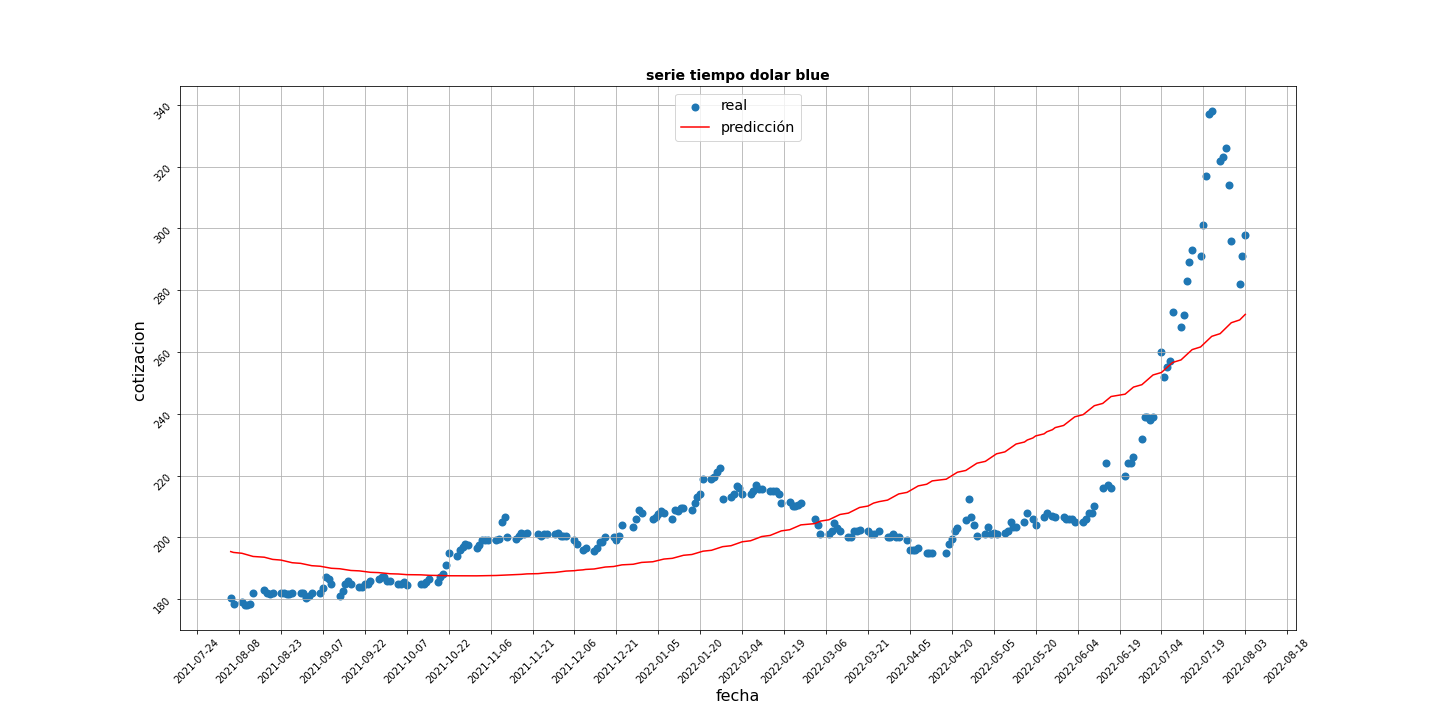
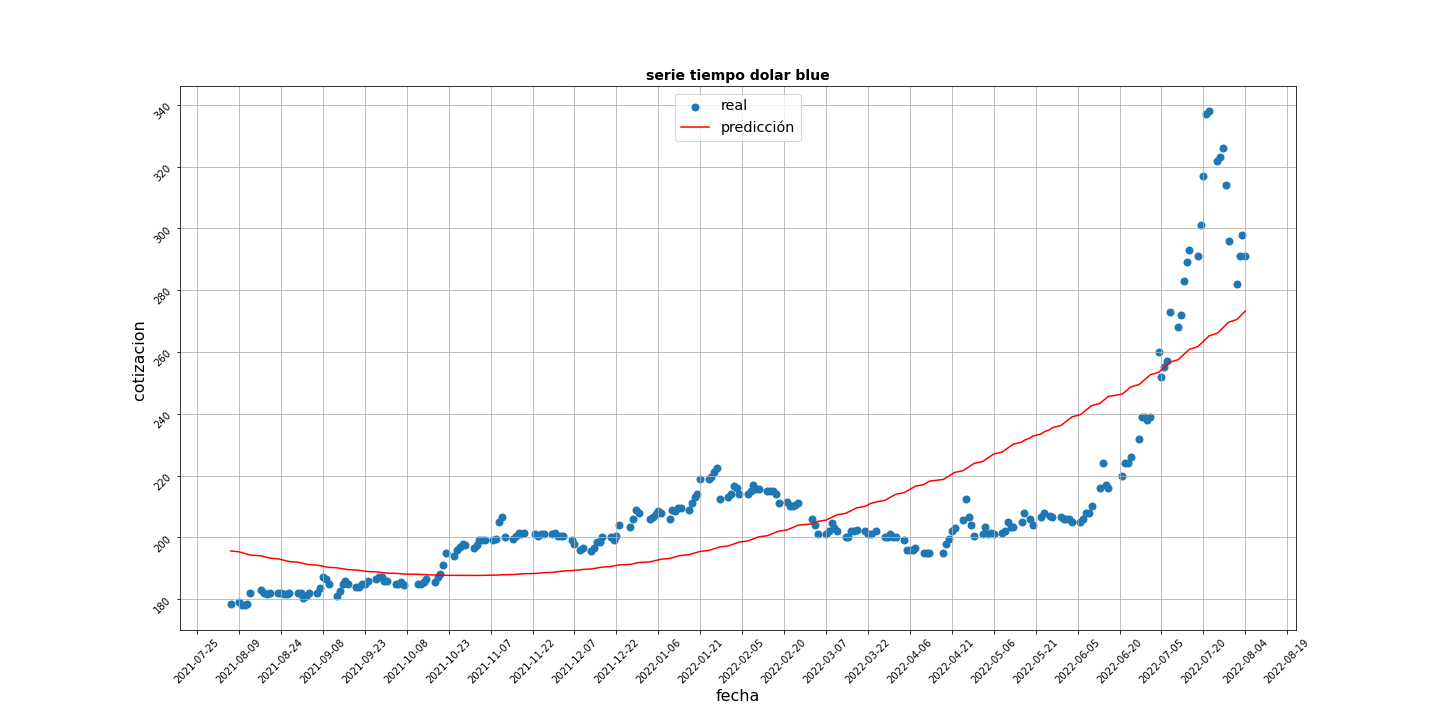
agregado CER

diff --git a/dolar_v12.py b/dolar_v12.py
@@ -16,6 +16,7 @@ from sklearn.model_selection import train_test_split
 
 grado=2
 periodo=365
+inputfecha= '2022-9-30'
 
 '''
 urls={
@@ -62,10 +63,10 @@ df_usd_oficial.to_csv('usd_oficial.csv', index=False)
 df_usd_blue.to_csv('usd_blue.csv',  index=False)
 df_milestones.to_csv('milestones.csv', index=False)
 df_CER.to_csv('CER.csv',  index=False)
-
+'''
 #FIN CONSULTA API
 
-'''
+
 
 usd_oficial= pd.read_csv('usd_oficial.csv')
 usd_blue= pd.read_csv('usd_blue.csv')
@@ -76,13 +77,9 @@ CER = pd.read_csv('CER.csv')
 dolars=  pd.merge(usd_oficial, usd_blue, on='d')
 dolars_1 = pd.merge(dolars, milestones, on='d'  )
 
-
-
 dolars['d'] = pd.to_datetime(dolars['d'], format='%Y-%m-%d')
 dolars= dolars[dolars.d > datetime.now() - timedelta(days=periodo) ]
 dolars.reset_index(inplace=True, drop=True)
-
-
 
 dolars['VarBrecha'] = dolars.apply(lambda x:( x['v_y'] / x['v_x'] -1 )*100 , axis=1)
 
@@ -128,17 +125,32 @@ df_2 = df_2.rename(columns={'d': 'Fecha', 'v_x':' Dolar oficial', 'v_y':'Dolar b
 df_2.reset_index(drop=True, inplace=True)
 print(f' 5 dias maxima volatilidad:\n{ df_2} \n'   )
 
+#------------agregar CER
+CER['d'] = pd.to_datetime(CER['d'], format='%Y-%m-%d')
+CER= CER[CER.d > datetime.now() - timedelta(days=periodo) ]
+
+dolarsCER = pd.merge(dolars, CER, on= 'd')
+
+#---------datos relevantes----
+print('Ultimos datos relevantes:')
+print(f'  Ultimo precio dolar oficial fecha {dolarsCER.iloc[-1, 0]} : ${dolarsCER.iloc[-1, 1] }')
+print(f'  Ultimo precio dolar oficial fecha {dolarsCER.iloc[-1, 0]} : ${dolarsCER.iloc[-1, 2] }')
+inflacion_periodo= (dolarsCER.iloc[-1, 9]/dolarsCER.iloc[0, 9]-1)*100
+print(f'  Inflación acumulada periodo {periodo} dias: {round(inflacion_periodo,2)} %')
+print('')
+
 #----------------graficas
 
 fig, ax = plt.subplots(figsize=(20, 10))
 
 ax.set_xlabel('fecha',   fontsize=16)
-ax.set_ylabel('cotizacion ', fontsize=16)
-ax.set_title('Dolar oficial - dolar blue ',  fontsize=14, fontweight='bold')
+ax.set_ylabel('cotizacion pesos ARS ', fontsize=16)
+ax.set_title('Dolar oficial - dolar blue - CER',  fontsize=14, fontweight='bold')
 ax.xaxis.set_major_formatter(mdates.DateFormatter('%Y-%m-%d'))
 ax.xaxis.set_major_locator(mdates.DayLocator(interval=15)) 
-ax.scatter(dates,  dolars.v_x,     label='dolar oficial', linewidth=2 )
-ax.plot(dates, dolars.v_y, label='dolar blue', color='red')
+ax.scatter(dates,  dolars.v_x,     label='dolar oficial $', linewidth=2 )
+ax.plot(dates, dolars.v_y, label='dolar blue $', color='red')
+ax.plot(dates, dolarsCER.v, label= 'CER', color='magenta'  )
 ax.plot(dates, dolars.SMA,  label='media movil blue', color='green'  )
 
 ax.grid(True)
@@ -254,6 +266,15 @@ def regressor_plots(money):
     print( f' prediccion 6 meses: {predict_6meses}')                
     print( f' prediccion 12 meses: {predict_12meses}')
     print()
+    
+    inputfecha_2 = datetime.strptime(inputfecha, '%Y-%m-%d')
+    dias = (inputfecha_2 - dolars.iloc[0, 7]).days
+    dias_mercado= int(dias/7*5)
+
+    valor_pred = lr2.predict (pr.fit_transform([[dias_mercado]]))[0]  
+    
+    print(f' valor calculado para {inputfecha} {money}: $ {int(valor_pred)} \n')
+    
    
     
     return
